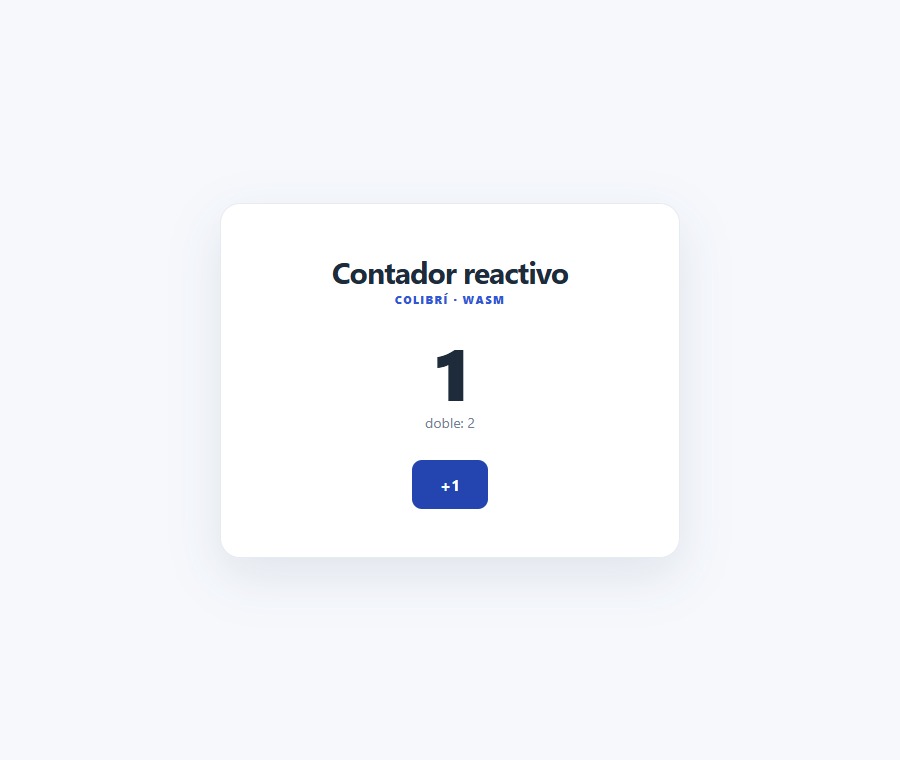
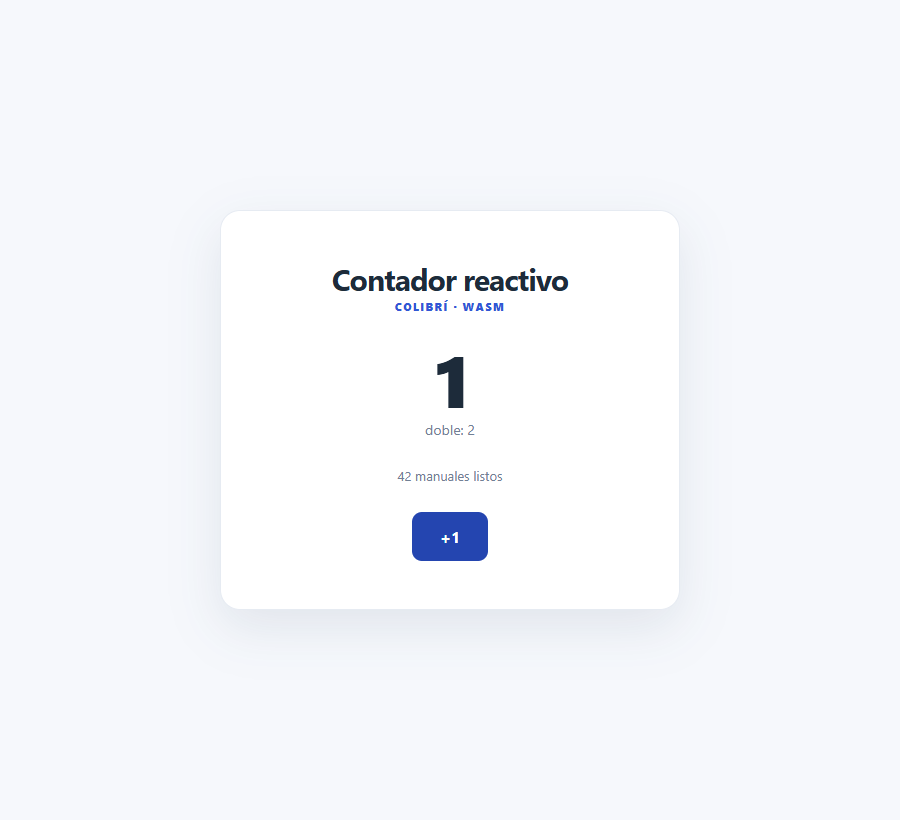
feat(core): add async resources and lazy values

Changed region(s): [[0.3422, 0.3329, 0.6533, 0.6961], [0.28, 0.7263, 0.7156, 0.7566]]

diff --git a/crates/colibri-dom/demo/style.css b/crates/colibri-dom/demo/style.css
@@ -60,6 +60,12 @@ h1 {
   font-size: 14px;
 }
 
+.async {
+  margin: 0 0 28px;
+  color: #718095;
+  font-size: 13px;
+}
+
 button {
   padding: 14px 28px;
   color: #fff;

diff --git a/crates/colibri-core/src/lib.rs b/crates/colibri-core/src/lib.rs
@@ -21,6 +21,17 @@ pub struct RuntimeStats {
     pub queued: usize,
 }
 
+/// Async data state for `use_async` in the browser runtime.
+#[derive(Debug, Clone, PartialEq, Eq)]
+pub enum Resource<T> {
+    /// The request is still running.
+    Loading,
+    /// The request completed with a value.
+    Ready(T),
+    /// The request failed with a message.
+    Failed(String),
+}
+
 pub fn stats() -> RuntimeStats {
     STATS.with(|stats| RuntimeStats {
         signals: stats.signals.get(),
@@ -228,6 +239,46 @@ impl Drop for Scope {
     }
 }
 
+struct LazyInner<T> {
+    value: RefCell<Option<T>>,
+    compute: Box<dyn Fn() -> T>,
+}
+
+/// A value computed on first read and cached for the lifetime of the handle.
+pub struct Lazy<T> {
+    inner: Rc<LazyInner<T>>,
+}
+
+impl<T> Clone for Lazy<T> {
+    fn clone(&self) -> Self {
+        Self {
+            inner: Rc::clone(&self.inner),
+        }
+    }
+}
+
+impl<T: Clone> Lazy<T> {
+    /// Return the cached value, computing it on first access.
+    pub fn get(&self) -> T {
+        if let Some(value) = self.inner.value.borrow().as_ref() {
+            return value.clone();
+        }
+        let value = (self.inner.compute)();
+        *self.inner.value.borrow_mut() = Some(value.clone());
+        value
+    }
+}
+
+/// Create a lazy value. The closure runs at most once per handle.
+pub fn use_lazy<T: Clone + 'static>(compute: impl Fn() -> T + 'static) -> Lazy<T> {
+    Lazy {
+        inner: Rc::new(LazyInner {
+            value: RefCell::new(None),
+            compute: Box::new(compute),
+        }),
+    }
+}
+
 #[cfg(test)]
 mod tests {
     use super::*;
@@ -257,6 +308,24 @@ mod tests {
             signal.set(1);
         }
         signal.set(2);
+        assert_eq!(calls.get(), 1);
+    }
+
+    #[test]
+    fn lazy_computes_once_and_shares() {
+        let calls = Rc::new(Cell::new(0));
+        let lazy = use_lazy({
+            let calls = Rc::clone(&calls);
+            move || {
+                calls.set(calls.get() + 1);
+                42
+            }
+        });
+        let clone = lazy.clone();
+        assert_eq!(calls.get(), 0);
+        assert_eq!(lazy.get(), 42);
+        assert_eq!(clone.get(), 42);
+        assert_eq!(lazy.get(), 42);
         assert_eq!(calls.get(), 1);
     }
 }

diff --git a/crates/colibri-dom/examples/counter.rs b/crates/colibri-dom/examples/counter.rs
@@ -1,9 +1,10 @@
 //! WASM counter: `cargo build --target wasm32-unknown-unknown --example counter --release`.
 #[cfg(target_arch = "wasm32")]
 mod wasm {
-    use colibri_core::{use_memo, use_state};
-    use colibri_dom::{mount, View};
+    use colibri_core::{use_memo, use_state, Resource};
+    use colibri_dom::{mount, use_async, View};
     use colibri_macros::{component, dom};
+    use gloo_timers::future::TimeoutFuture;
     use wasm_bindgen::prelude::*;
 
     #[component]
@@ -33,6 +34,11 @@ mod wasm {
             let count = count.clone();
             move || count.get() * 2
         });
+        let manuals = use_async(async {
+            TimeoutFuture::new(500).await;
+            Ok::<_, String>(42_i32)
+        });
+        let manuals_text = manuals.clone();
 
         let view = dom! {
             <main class="counter">
@@ -40,6 +46,11 @@ mod wasm {
                     <p class="eyebrow">"COLIBRÍ · WASM"</p>
                     <p class="value">{count_text.get()}</p>
                     <p class="double">"doble: " {doubled.get()}</p>
+                    <p class="async">{match manuals_text.get() {
+                        Resource::Loading => String::from("cargando catálogo…"),
+                        Resource::Ready(total) => format!("{total} manuales listos"),
+                        Resource::Failed(error) => format!("error: {error}"),
+                    }}</p>
                     <button type="button" on:click={move |_event| count_click.update(|n| *n += 1)}>
                         "+1"
                     </button>

diff --git a/crates/colibri-dom/src/resource.rs b/crates/colibri-dom/src/resource.rs
@@ -1,0 +1,22 @@
+use colibri_core::{Resource, Signal};
+use std::future::Future;
+
+/// Spawn `future` on the browser event loop and expose its state as a signal.
+///
+/// The signal starts in [`Resource::Loading`] and becomes `Ready` or `Failed`
+/// when the future completes. Effects that read it update the DOM.
+pub fn use_async<T, F>(future: F) -> Signal<Resource<T>>
+where
+    T: Clone + 'static,
+    F: Future<Output = Result<T, String>> + 'static,
+{
+    let state = Signal::new(Resource::Loading);
+    let target = state.clone();
+    wasm_bindgen_futures::spawn_local(async move {
+        target.set(match future.await {
+            Ok(value) => Resource::Ready(value),
+            Err(message) => Resource::Failed(message),
+        });
+    });
+    state
+}

diff --git a/crates/colibri-dom/src/lib.rs b/crates/colibri-dom/src/lib.rs
@@ -6,6 +6,10 @@
 
 #[cfg(target_arch = "wasm32")]
 mod browser;
+#[cfg(target_arch = "wasm32")]
+mod resource;
 
 #[cfg(target_arch = "wasm32")]
 pub use browser::{mount, Attribute, ElementView, EventBinding, MountHandle, View};
+#[cfg(target_arch = "wasm32")]
+pub use resource::use_async;

diff --git a/docs/STATUS.md b/docs/STATUS.md
@@ -1,12 +1,12 @@
 # Estado real del proyecto
 
-Actualizado: 2026-11-16. M00–M06, componentes funcionales y M07 parcial (DOM/WASM) pasaron CI en `f2ff960`: 82 pruebas en host, build WASM y demo Chrome (`0→1`, doble `0→2`). El dashboard externo **ManualOps** (Axum + Colibrí) compila, pasa 5 tests y responde HTTP real. No se ha probado rendimiento comparativo ni hidratación SSR.
+Actualizado: 2026-11-16. M00–M07 parcial (DOM/WASM, async y lazy) pasaron CI en `f2ff960`: 82 pruebas; con `use_async`/`use_lazy` son **83 en local**, pendiente de CI. El demo Chrome muestra `0→1`, doble `0→2` y `cargando → 42 manuales listos`, sin errores. ManualOps (Axum + Colibrí) sigue validado. No se ha probado rendimiento ni hidratación SSR.
 
 ## Existente en main
 | Módulo | Implementado (limitado) | NO implementado |
 |---|---|---|
-| `colibri-core` | `Signal<T>`, `Scope`; tracking sincrónico, `use_state`, `use_memo` eager, `use_effect`, cleanup, `batch`; ciclos recuperables con `take_error()`, `stats()` y `Scope::dispose` (M05) | browser scheduler, tracking async, memo lazy, concurrencia, DOM |
-| `colibri-dom` | runtime DOM/WASM: `View`, `dom!`, `mount`, bindings con effects, eventos y cleanup (M07 parcial) | reconciliación estructural, SFC cliente, hidratación, async/lazy |
+| `colibri-core` | `Signal<T>`, `Scope`; tracking sincrónico, `use_state`, `use_memo` eager, `use_effect`, `use_lazy`, `Resource`, cleanup, `batch`; ciclos recuperables con `take_error()`, `stats()` y `Scope::dispose` (M05) | browser scheduler, tracking async, memo lazy, concurrencia, DOM |
+| `colibri-dom` | runtime DOM/WASM: `View`, `dom!`, `mount`, bindings con effects, eventos, `use_async`/`Resource` y cleanup (M07 parcial) | reconciliación estructural, SFC cliente, hidratación, Suspense |
 | `colibri-parser` | scanner SFC, AST con spans, atributos e interpolaciones; límites de tamaño/profundidad; lowering estático a IR (M01–M02) | validación integral de expresiones Rust, HTML5 completo, entidades, SCSS |
 | `colibri-ir` | IR con spans: texto, texto dinámico, elementos, fragmentos, atributos y eventos; lowering SFC→IR (M02) | componentes/calls, props, control de flujo, análisis de dependencias, codegen |
 | `colibri-codegen` | SFC → programa Rust con script, expresiones y atributos dinámicos; `build`/`eval` ejecutan con rustc (M06b) | control de flujo, componentes, eventos, SCSS, optimización |
@@ -36,7 +36,7 @@ Actualizado: 2026-11-16. M00–M06, componentes funcionales y M07 parcial (DOM/W
 |---|---|
 | `cargo fmt --all --check` | Pasa en CI del PR #3 (run 43989925541) |
 | `cargo clippy --workspace --all-targets -- -D warnings` | Pasa en CI del PR #3 |
-| `cargo test --workspace` | CI `f2ff960`: 82 pruebas, 0 fallos. Local: 82 |
+| `cargo test --workspace` | Local: 83 pruebas. CI `f2ff960`: 82 |
 | `colibri check examples/counter.colibri` | Pasa en local; sólo valida bloques y estructura del template, no compila |
 | `colibri render examples/static-card.colibri` | Emite HTML estático (M02); rechaza contenido dinámico con span |
 | `colibri render examples/greeting.colibri --bind name=Ada --bind message=Bienvenida` | Emite HTML con valores resueltos (M06a); falla con `MissingValue` si falta un binding |
@@ -44,7 +44,7 @@ Actualizado: 2026-11-16. M00–M06, componentes funcionales y M07 parcial (DOM/W
 | `cargo test -p colibri-ssr` | 12 pruebas: escape, URL allowlist, dinámicos, meta/link seguros y rechazos |
 | `cargo test -p colibri-macros` | Componentes, props tipadas, composición, children y `Option`/null safety (M03b) |
 | Build WASM + wasm-bindgen | CI `f2ff960` compila `wasm32-unknown-unknown`; demo local con wasm-bindgen |
-| Chrome/Playwright | Contador: `0 → 1`, `doble 0 → 2`, sin errores de consola; captura `counter.png` |
+| Chrome/Playwright | Contador: `0 → 1`, `doble 0 → 2`, `cargando → 42 manuales listos`, sin errores; captura `counter.png` |
 | Audit portátil de `teachers` | fmt + clippy + README + `expect` limpios; quedan 4 archivos >400 líneas (deuda documentada en [quality](quality.md)) |
 | CLI con SFC inválido | Reporta `archivo:línea:columna` y código de error (M01) |
 | CI de GitHub con `--check` | **Verificado** en `main`/`develop` para `f2ff960`: [run 44000546147](https://github.com/jdsalasca/colibri/actions/runs/44000546147) / [run 44000546225](https://github.com/jdsalasca/colibri/actions/runs/44000546225) (validate + wasm) |
@@ -79,9 +79,9 @@ Dashboard de manuales internos con Axum + componentes Colibrí, sin JavaScript:
 
 ## Avance M07 — runtime DOM/WASM
 
-`colibri-dom` (wasm32) monta un `View` en el DOM, actualiza texto/atributos con effects y registra eventos con `Closure`. `#[component]` funciona con retorno `View` y children vía `Fragment`. El demo `crates/colibri-dom/demo` usa `use_state`, `use_memo`, un componente `Panel` y `on:click`; en Chrome real: `0→1`, `doble 0→2`, sin errores de consola. Ver [ADR 0011](adr/0011-dom-runtime-mvp.md).
+`colibri-dom` (wasm32) monta un `View` en el DOM, actualiza texto/atributos con effects y registra eventos con `Closure`. `#[component]` funciona con retorno `View` y children vía `Fragment`. `use_async` añade `Resource<T>` (`Loading/Ready/Failed`) con `spawn_local`; `use_lazy` cachea un cálculo al primer acceso. El demo usa `use_state`, `use_memo`, `use_async`, un componente `Panel` y `on:click`; en Chrome real: `0→1`, `doble 0→2`, `cargando → 42 manuales listos`, sin errores. Ver [ADR 0011](adr/0011-dom-runtime-mvp.md) y [0012](adr/0012-async-resource-lazy.md).
 
-Pendiente: reconciliación estructural, SFC cliente, hidratación, tests E2E en CI, medición JS↔WASM, async/lazy.
+Pendiente: reconciliación estructural, SFC cliente, hidratación, Suspense/streaming, cancelación de futures, tests E2E en CI y medición JS↔WASM.
 
 ### Entrega entre agentes
 

diff --git a/docs/spec/reactivity.md b/docs/spec/reactivity.md
@@ -1,6 +1,6 @@
 # Contrato de reactividad y ciclo de vida
 
-**Estado:** contrato M05 cubierto con prototipo verificable: `use_state`, tracking sincrónico, `use_memo` eager, `use_effect`, `use_effect_with_cleanup`, `batch`, cleanup por Scope, ciclos recuperables con `take_error()` y contadores con `stats()`. No está implementado un scheduler browser/concurrente, reactividad asíncrona ni DOM. Ver `docs/STATUS.md` y [ADR 0006](../adr/0006-reactive-cycles-and-stats.md).
+**Estado:** contrato M05 cubierto con prototipo verificable: `use_state`, tracking sincrónico, `use_memo` eager, `use_effect_with_cleanup`, `batch`, cleanup por Scope, ciclos recuperables, `stats()`, `use_lazy` y `Resource<T>`. `use_async` vive en `colibri-dom` wasm y conecta el estado al DOM. Siguen pendientes scheduler concurrente, `Send + Sync`, Suspense/streaming y cancelación de futures. Ver `docs/STATUS.md`, [ADR 0006](../adr/0006-reactive-cycles-and-stats.md) y [ADR 0012](../adr/0012-async-resource-lazy.md).
 
 ## Modelo
 - `Signal<T>`: lectura/actualización de estado; operaciones definidas según ownership de Rust.
@@ -35,12 +35,19 @@ batch(|| { price.set(11); price.set(12); });
 
 **Nota semántica:** esta no es la API de Hooks React y no depende de orden de invocación; depende de la vida útil de handles de Rust. La ejecución inicial de effect es inmediata, el memo recalcula eager, sólo se rastrean lecturas sincrónicas; suscriptores manuales siguen siendo síncronos incluso durante batch. Los ciclos reactivos se cortan tras 4.096 ejecuciones y dejan `ReactiveError::CycleLimit` en `take_error()`, sin panic. No asumir paridad de timing con React, Solid ni Leptos.
 
+## Async y lazy (ADR 0012)
+
+- `Resource<T>`: `Loading`, `Ready(T)`, `Failed(String)`.
+- `colibri_dom::use_async`: `Signal<Resource<T>>` con `spawn_local`; ideal para fetch en wasm.
+- `use_lazy`: cálculo único al primer `get`, cacheado; no se invalida.
+- Sin cancelación, Suspense, streaming ni lazy components todavía.
+
 ## Contrato observable MVP
 - `signal.get()` devuelve último valor confirmado.
 - `signal.set(v)` cambia valor, informa a observadores activos y retorna sin mantener borrows pendientes.
 - `subscription.drop()` cancela notificaciones futuras.
 - `scope.drop()` limpia sus recursos una vez, incluyendo bajo desmontajes anidados.
-- `memo` y `effect`, cuando existan, tienen orden y limpieza documentados.
+- `memo` y `effect` tienen orden y limpieza documentados.
 
 ## Pruebas de corrección mínimas
 - Suscribir y desuscribir dentro de un callback.

diff --git a/docs/adr/0012-async-resource-lazy.md b/docs/adr/0012-async-resource-lazy.md
@@ -1,0 +1,39 @@
+# ADR 0012 - Async `Resource` y valores lazy
+
+Fecha: 2026-11-16
+Estado: **Aceptada** para M07/M05 extensión.
+
+## Contexto
+Faltaban dos semánticas React pedidas explícitamente: datos asíncronos con estados y valores calculados de forma perezosa. El runtime DOM ya tenía `use_state`/`use_memo`/`use_effect` y eventos, pero no podía representar `Loading/Ready/Error` ni posponer un cálculo caro.
+
+## Decisión
+
+1. `colibri-core::Resource<T>` con `Loading`, `Ready(T)` y `Failed(String)`.
+2. `colibri_dom::use_async(future)` (sólo `wasm32`):
+   - crea `Signal<Resource<T>>` en `Loading`;
+   - `wasm_bindgen_futures::spawn_local` ejecuta el future;
+   - al terminar hace `set(Ready/Failed)`;
+   - los efectos del DOM actualizan el texto/atributo.
+3. `colibri-core::Lazy<T>` + `use_lazy(compute)`:
+   - cálculo al primer `get`, cacheado para siempre;
+   - handle clonable (`Rc`), comparte el valor;
+   - no depende de señales ni se invalida.
+4. El demo usa `use_async` con `gloo-timers` (500 ms) y muestra `cargando catálogo… → 42 manuales listos`.
+
+## Alternativas
+- `Future` en cada render: repetiría peticiones y perdería estado.
+- Hooks con orden de llamadas tipo React: innecesario en Rust; los handles tienen ownership explícito.
+- `Lazy` reactivo: sería `Memo`; `use_memo` ya cubre derivaciones con invalidación.
+- Async en SSR: exige un runtime/planificador de servidor y un contrato de streaming; fuera de esta rebanada.
+
+## Consecuencias
+- `Resource` es genérico y sin dependencias de browser; `use_async` sólo existe en `colibri-dom` wasm.
+- No hay cancelación al desmontar: el future sigue y hace `set` sobre una señal que puede quedar sin observadores. No rompe memoria, pero no es cancelación cooperativa.
+- No hay `Suspense` ni streaming; el estado inicial es `Loading` y el DOM se actualiza al completar.
+- `Lazy` no se invalida; si el valor depende de estado cambiante, usa `use_memo`.
+- `Lazy` es single-thread y no promete `Send + Sync`.
+
+## Validación
+- Unit test de `Lazy`: cómputo una vez, handles clonados comparten.
+- Chrome/WASM: texto inicial `cargando catálogo…`, luego `42 manuales listos`; click `0→1`, doble `0→2`; cero errores de consola.
+- 83 pruebas de host; CI wasm compila el ejemplo.

diff --git a/README.md b/README.md
@@ -20,8 +20,8 @@ Colibrí es un proyecto de investigación y desarrollo de un framework web *Rust
 
 | Paquete | Estado | Función |
 |---|---|---|
-| `colibri-core` | Prototipo | Signals, scopes y motor con `use_state`, `use_memo`, `use_effect`, `batch`, ciclos recuperables (`take_error`), `stats()` y `Scope::dispose` |
-| `colibri-dom` | Prototipo | Runtime DOM/WASM: `View`, `dom!`, `mount`, bindings con effects, eventos y cleanup (M07 parcial) |
+| `colibri-core` | Prototipo | Signals, scopes y motor con `use_state`, `use_memo`, `use_effect`, `use_lazy`, `Resource`, `batch`, ciclos recuperables (`take_error`), `stats()` y `Scope::dispose` |
+| `colibri-dom` | Prototipo | Runtime DOM/WASM: `View`, `dom!`, `mount`, bindings con effects, eventos, `use_async`/`Resource` y cleanup (M07 parcial) |
 | `colibri-parser` | Prototipo | Scanner SFC y AST de template con spans (M01); no compila |
 | `colibri-ir` | Prototipo | IR semántica con spans y lowering SFC→IR (M02) |
 | `colibri-codegen` | Prototipo | SFC → programa Rust; `build`/`eval` con rustc real (M06b) |
@@ -85,7 +85,7 @@ pub fn Counter() -> View {
 }
 ```
 
-Build y demo: [`colibri-dom/demo`](crates/colibri-dom/demo/README.md). `dom!` acepta eventos y actualiza bindings sin reconstruir el árbol.
+Build y demo: [`colibri-dom/demo`](crates/colibri-dom/demo/README.md). `dom!` acepta eventos y actualiza bindings sin reconstruir el árbol. `use_async` devuelve `Signal<Resource<T>>` (`Loading/Ready/Failed`) y `use_lazy` cachea un cálculo al primer acceso.
 
 ## Primeros pasos
 

diff --git a/docs/guide/hooks.md b/docs/guide/hooks.md
@@ -63,13 +63,35 @@ pub fn Counter() -> View {
 
 `mount(view, container)` construye el DOM, suscribe los bindings y limpia listeners/effects al soltar el `MountHandle`. Demo reproducible: [`colibri-dom/demo`](../../crates/colibri-dom/demo/README.md).
 
+## Async y lazy
+
+```rust
+use colibri_core::Resource;
+use colibri_dom::use_async;
+use gloo_timers::future::TimeoutFuture;
+
+let manuals = use_async(async {
+    TimeoutFuture::new(500).await;
+    Ok::<_, String>(42)
+});
+
+match manuals.get() {
+    Resource::Loading => "cargando…",
+    Resource::Ready(total) => "listo",
+    Resource::Failed(error) => "error",
+}
+```
+
+- `use_async` sólo existe en `wasm32`; crea `Signal<Resource<T>>` y actualiza al completar.
+- `use_lazy(compute)` calcula una vez al primer `get` y cachea; no se invalida. Para derivaciones que cambian usa `use_memo`.
+
 ## Lo que todavía no existe
 
 - **Reconciliación estructural**: la forma del árbol se fija al montar; listas/condicionales que cambian requieren remount o diff (pendiente).
 - **SFC cliente**: `dom!` es la ruta Rust; `.colibri` aún no compila a WASM.
 - **Hidratación** SSR → cliente.
-- **Async**: no existe `use_resource`/`use_async` ni estados `Loading/Ready/Error`.
-- **Lazy**: `use_memo` es eager; no hay componentes lazy ni code splitting.
+- **Suspense/streaming**: `Resource` no suspende el render ni hace streaming.
+- **Cancelación de futures** al desmontar y code splitting/lazy components.
 
 ## Semántica recomendada para el futuro
 

diff --git a/crates/colibri-core/README.md b/crates/colibri-core/README.md
@@ -31,6 +31,8 @@ drop(scope); // unregister
 - `use_effect` se ejecuta inmediatamente y observa señales leídas **sincrónicamente**. La suscripción dura mientras viva el handle `Effect`.
 - `use_effect_with_cleanup` devuelve una función de cleanup, ejecutada antes del siguiente run y al soltar Effect.
 - `batch` agrupa cambios para deduplicar efectos; subscribers manuales aún son síncronos.
+- `use_lazy(compute)` calcula una vez al primer `get` y cachea; no se invalida.
+- `Resource<T>` (`Loading/Ready/Failed`) modela datos asíncronos; `use_async` vive en `colibri-dom` wasm.
 - `Scope::track_effect` administra lifetime y desuscribe al desmontar; `Scope::dispose` ejecuta cleanups LIFO y `Scope::own` apropia cualquier valor.
 - `take_error()` devuelve `ReactiveError::CycleLimit` si un ciclo superó 4.096 ejecuciones; el motor vacía la cola y sigue usable.
 - `stats()` expone señales, suscripciones, observadores y tareas en cola por hilo (instrumentación de tests).

diff --git a/docs/tasks/M07-browser-runtime.md b/docs/tasks/M07-browser-runtime.md
@@ -35,3 +35,10 @@ Implementado en `colibri-dom` (wasm32):
 - Demo `crates/colibri-dom/demo`: `Panel` + `use_state` + `use_memo` + `on:click`; Chrome: 0→1, doble 0→2, sin errores.
 
 Pendiente: SFC cliente, reconciliación estructural, tests E2E en CI, medición JS↔WASM y accesibilidad automatizada.
+
+## Extensión async/lazy (ADR 0012)
+
+- `colibri_core::Resource<T>` con `Loading/Ready/Failed`.
+- `colibri_dom::use_async`: `spawn_local` + `Signal<Resource<T>>`; el demo pasa de `cargando` a `42 manuales listos`.
+- `colibri_core::use_lazy`: cálculo único al primer `get`, cacheado y clonable.
+- Sin Suspense/streaming ni cancelación de futures.
